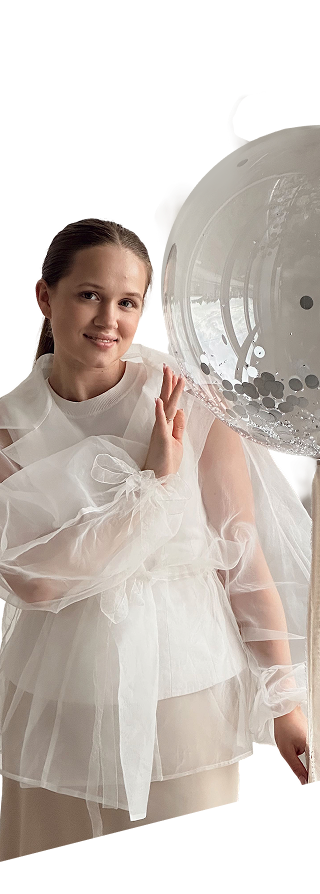
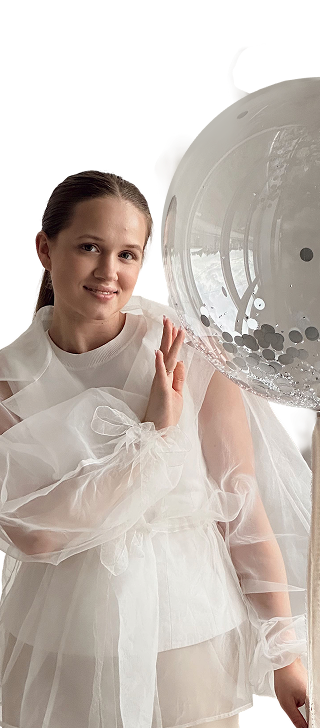
fix image

diff --git a/widgets/author/ui/AuthorSection.vue b/widgets/author/ui/AuthorSection.vue
@@ -294,7 +294,7 @@ const PAGE = 'var(--c-page)' // colour above the wave (matches the section above
     position: relative;
     z-index: 0;
     width: 100%; /* full-bleed the column (container has no padding) */
-    aspect-ratio: 320 / 540; /* shorter than the natural 320/728 → less tall */
+    aspect-ratio: 260 / 540; /* shorter than the natural 320/728 → less tall */
     height: auto;
     object-fit: cover; /* fill the shorter box */
     object-position: center bottom; /* anchor to the figure, drop the empty/transparent top */
@@ -305,7 +305,7 @@ const PAGE = 'var(--c-page)' // colour above the wave (matches the section above
     position: relative;
     z-index: 1;
     width: max(300px, 70.09cqw);
-    margin: min(-300px, -70.1cqw) auto 0; /* pulled high up over the photo */
+    margin: min(-300px, -120.1cqw) auto 0; /* pulled high up over the photo */
     background: var(--c-white);
     border-radius: max(20px, 4.67cqw);
     /* Figma 118:125: content inset is 18 left / 0 right (text box reaches the card edge) */